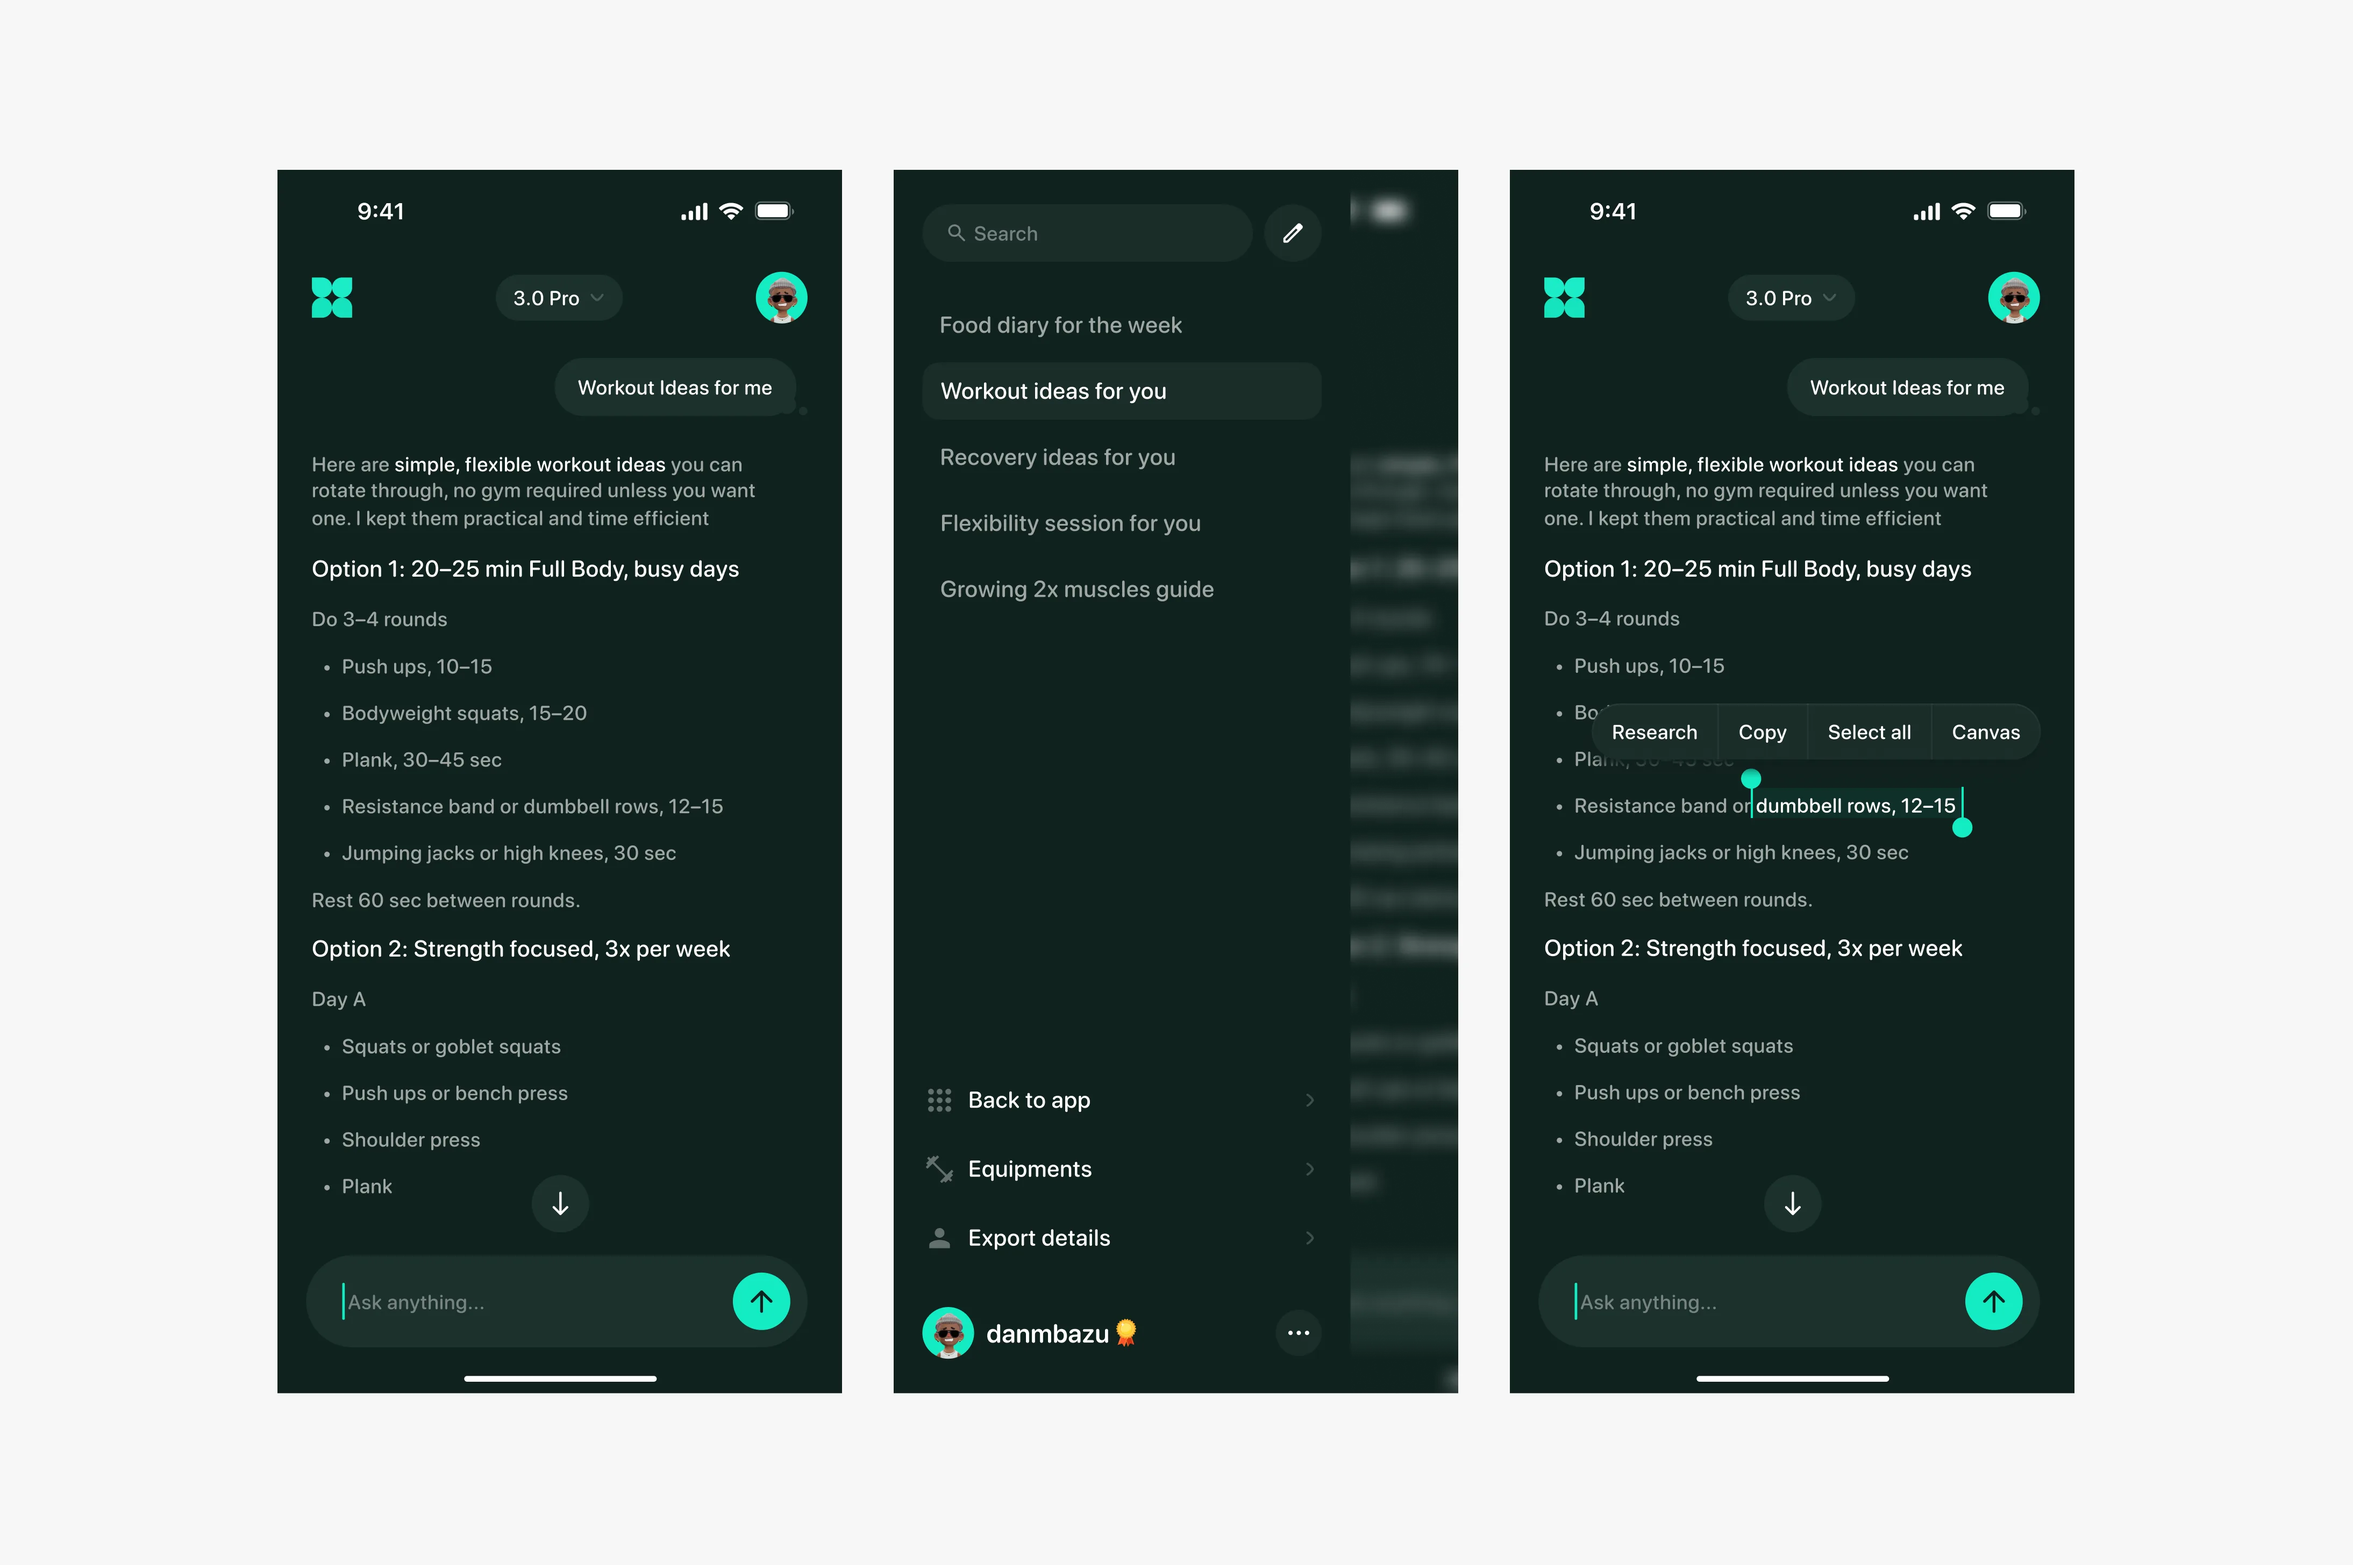
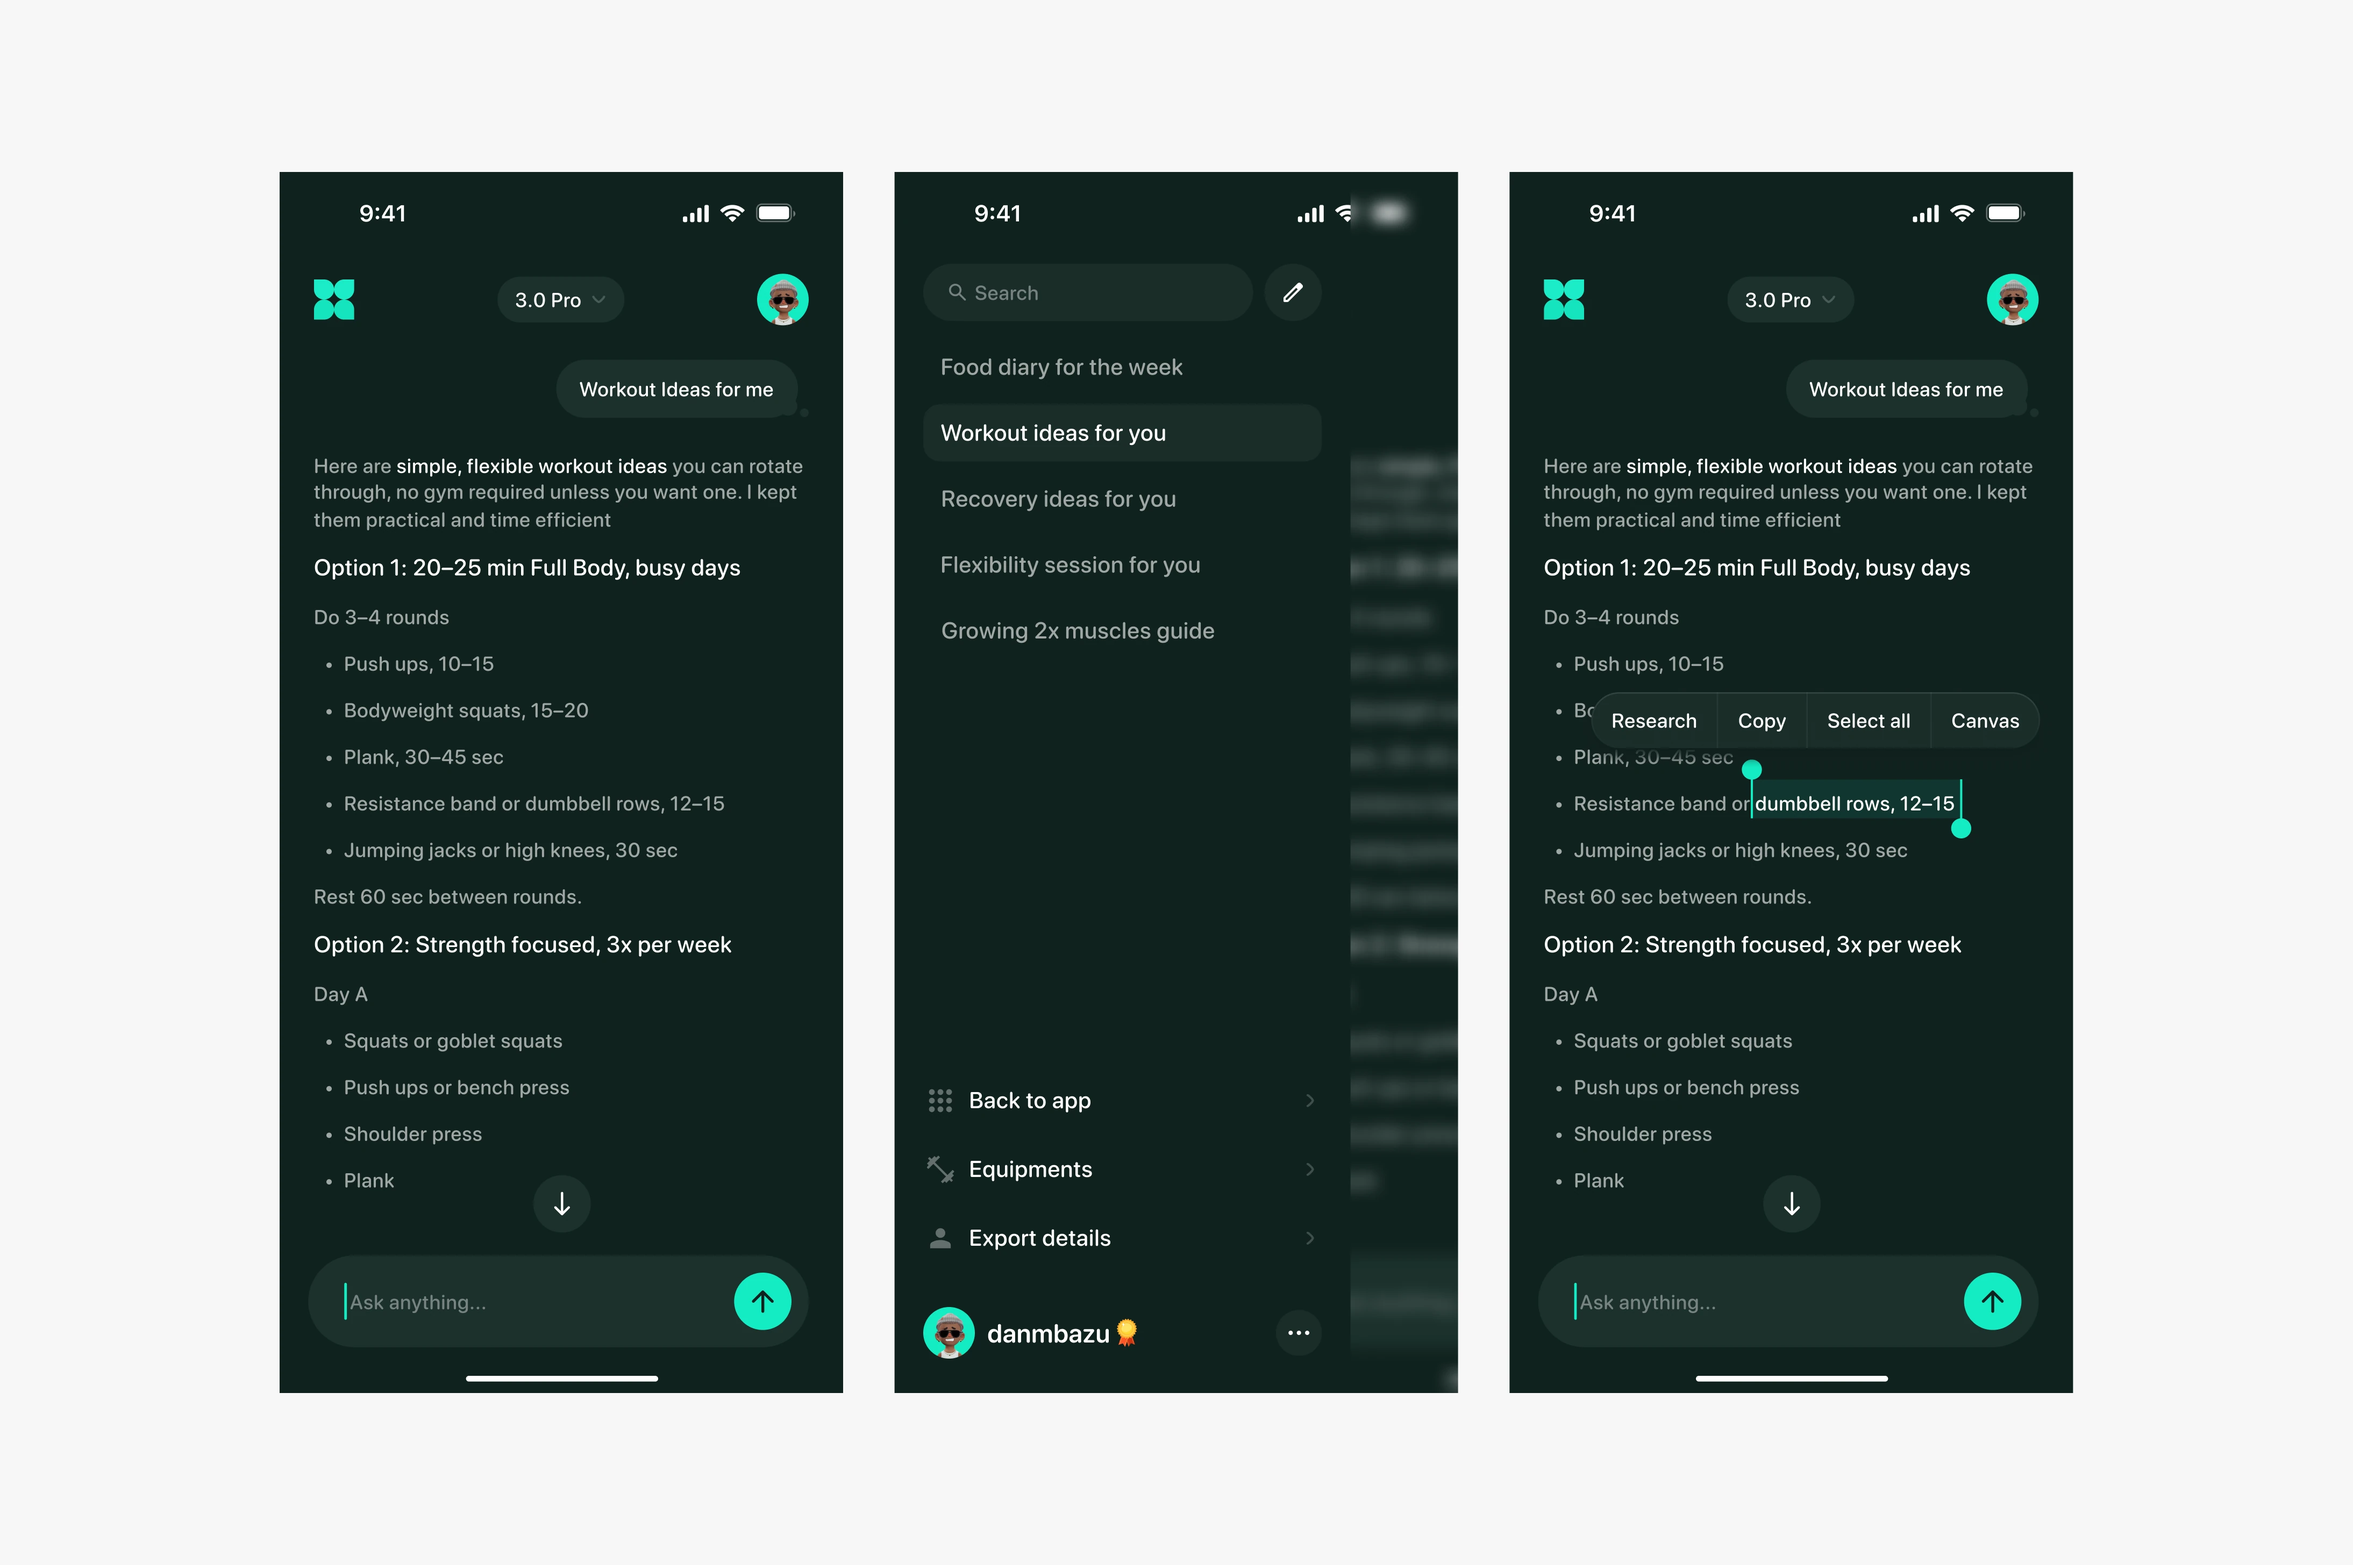
Update image e and add descriptive alt text to portfolio images

diff --git a/index.html b/index.html
@@ -72,43 +72,43 @@
 
     <main class="portfolio animate-portfolio">
       <div class="portfolio-grid">
-        <div class="portfolio-card"><img src="images/placeholder.webp" alt="Portfolio project 1" loading="eager" fetchpriority="high" decoding="async"></div>
-        <div class="portfolio-card"><img src="images/image a.webp" alt="Portfolio project 2" loading="eager" fetchpriority="high" decoding="async"></div>
-        <div class="portfolio-card"><img src="images/image ff.webp" alt="Portfolio project 3" loading="eager" decoding="async"></div>
-        <div class="portfolio-card"><img src="images/image gg.webp" alt="Xeho app onboarding screens" loading="eager" decoding="async"></div>
-        <div class="portfolio-card"><img src="images/image hh.webp" alt="Xeho app meal scanning screens" loading="eager" decoding="async"></div>
-        <div class="portfolio-card"><img src="images/image ii.webp" alt="Xeho app diet dashboard screens" loading="eager" decoding="async"></div>
-        <div class="portfolio-card"><img src="images/image c.webp" alt="Portfolio project 4" loading="eager" decoding="async"></div>
-        <div class="portfolio-card"><img src="images/image d.webp" alt="Portfolio project 5" loading="lazy" decoding="async"></div>
-        <div class="portfolio-card"><img src="images/image e.webp" alt="Portfolio project 6" loading="lazy" decoding="async"></div>
-        <div class="portfolio-card"><img src="images/image f.webp" alt="Portfolio project 7" loading="lazy" decoding="async"></div>
-        <div class="portfolio-card"><img src="images/image g.webp" alt="Portfolio project 8" loading="lazy" decoding="async"></div>
-        <div class="portfolio-card"><img src="images/image h.webp" alt="Portfolio project 9" loading="lazy" decoding="async"></div>
-        <div class="portfolio-card"><img src="images/image i.webp" alt="Portfolio project 10" loading="lazy" decoding="async"></div>
-        <div class="portfolio-card"><img src="images/image j.webp" alt="Portfolio project 11" loading="lazy" decoding="async"></div>
-        <div class="portfolio-card"><img src="images/image k.webp" alt="Portfolio project 12" loading="lazy" decoding="async"></div>
-        <div class="portfolio-card"><img src="images/image l.webp" alt="Portfolio project 13" loading="lazy" decoding="async"></div>
-        <div class="portfolio-card"><img src="images/image m.webp" alt="Portfolio project 14" loading="lazy" decoding="async"></div>
-        <div class="portfolio-card"><img src="images/image n.webp" alt="Portfolio project 15" loading="lazy" decoding="async"></div>
-        <div class="portfolio-card"><img src="images/image o.webp" alt="Portfolio project 16" loading="lazy" decoding="async"></div>
-        <div class="portfolio-card"><img src="images/image p.webp" alt="Portfolio project 17" loading="lazy" decoding="async"></div>
-        <div class="portfolio-card"><img src="images/image q.webp" alt="Portfolio project 18" loading="lazy" decoding="async"></div>
-        <div class="portfolio-card"><img src="images/image r.webp" alt="Portfolio project 19" loading="lazy" decoding="async"></div>
-        <div class="portfolio-card"><img src="images/image s.webp" alt="Portfolio project 20" loading="lazy" decoding="async"></div>
-        <div class="portfolio-card"><img src="images/image t.webp" alt="Portfolio project 21" loading="lazy" decoding="async"></div>
-        <div class="portfolio-card"><img src="images/image u.webp" alt="Portfolio project 22" loading="lazy" decoding="async"></div>
-        <div class="portfolio-card"><img src="images/image v.webp" alt="Portfolio project 23" loading="lazy" decoding="async"></div>
-        <div class="portfolio-card"><img src="images/image w.webp" alt="Portfolio project 24" loading="lazy" decoding="async"></div>
-        <div class="portfolio-card"><img src="images/image x.webp" alt="Portfolio project 25" loading="lazy" decoding="async"></div>
-        <div class="portfolio-card"><img src="images/image-1.webp" alt="Portfolio project 26" loading="lazy" decoding="async"></div>
-        <div class="portfolio-card"><img src="images/image-2.webp" alt="Portfolio project 27" loading="lazy" decoding="async"></div>
-        <div class="portfolio-card"><img src="images/image y.webp" alt="Portfolio project 28" loading="lazy" decoding="async"></div>
-        <div class="portfolio-card"><img src="images/image z.webp" alt="Portfolio project 29" loading="lazy" decoding="async"></div>
-        <div class="portfolio-card"><img src="images/image aa.webp" alt="Portfolio project 30" loading="lazy" decoding="async"></div>
-        <div class="portfolio-card"><img src="images/image bb.webp" alt="Portfolio project 31" loading="lazy" decoding="async"></div>
-        <div class="portfolio-card"><img src="images/image cc.webp" alt="Portfolio project 32" loading="lazy" decoding="async"></div>
-        <div class="portfolio-card"><img src="images/image dd.webp" alt="Portfolio project 33" loading="lazy" decoding="async"></div>
-        <div class="portfolio-card"><img src="images/image ee.webp" alt="Portfolio project 34" loading="lazy" decoding="async"></div>
+        <div class="portfolio-card"><img src="images/placeholder.webp" alt="Messaging app chat screens with a conversation, pinned chat menu and message reactions" loading="eager" fetchpriority="high" decoding="async"></div>
+        <div class="portfolio-card"><img src="images/image a.webp" alt="Everycent finance app sign-up screens and Upgrade to Pro paywall" loading="eager" fetchpriority="high" decoding="async"></div>
+        <div class="portfolio-card"><img src="images/image ff.webp" alt="Xeho fitness app sign-in screens with phone number and OTP verification" loading="eager" decoding="async"></div>
+        <div class="portfolio-card"><img src="images/image gg.webp" alt="Xeho onboarding screens asking about goals, birth year and food allergies" loading="eager" decoding="async"></div>
+        <div class="portfolio-card"><img src="images/image hh.webp" alt="Xeho meal scanning flow: diet dashboard, food camera and add scanned meal form" loading="eager" decoding="async"></div>
+        <div class="portfolio-card"><img src="images/image ii.webp" alt="Xeho diet dashboard with calorie tracking, special offer paywall and meal history" loading="eager" decoding="async"></div>
+        <div class="portfolio-card"><img src="images/image c.webp" alt="Xeho workout screens: workouts overview, warm-up video and AI workout generator" loading="eager" decoding="async"></div>
+        <div class="portfolio-card"><img src="images/image d.webp" alt="Xeho profile settings, edit username and AI assistant home screens" loading="lazy" decoding="async"></div>
+        <div class="portfolio-card"><img src="images/image e.webp" alt="Xeho AI assistant chat with workout ideas, chat history sidebar and text selection" loading="lazy" decoding="async"></div>
+        <div class="portfolio-card"><img src="images/image f.webp" alt="Messaging app group thread screens with member list and message actions" loading="lazy" decoding="async"></div>
+        <div class="portfolio-card"><img src="images/image g.webp" alt="Shootassist team app screens: home with job timer, notifications and settings menu" loading="lazy" decoding="async"></div>
+        <div class="portfolio-card"><img src="images/image h.webp" alt="Everycent spending overview, food category transactions and budget editing screens" loading="lazy" decoding="async"></div>
+        <div class="portfolio-card"><img src="images/image i.webp" alt="Everycent empty overview, transactions to review and coffee overspend alert" loading="lazy" decoding="async"></div>
+        <div class="portfolio-card"><img src="images/image j.webp" alt="Everycent debt repayment goal, primary care spending gauge and subscription list" loading="lazy" decoding="async"></div>
+        <div class="portfolio-card"><img src="images/image k.webp" alt="Custom line icon set of food and drink icons" loading="lazy" decoding="async"></div>
+        <div class="portfolio-card"><img src="images/image l.webp" alt="Workspace app home with colourful context cards, card detail and view options" loading="lazy" decoding="async"></div>
+        <div class="portfolio-card"><img src="images/image m.webp" alt="StartClaw logo construction showing grid lines and filled and outline marks" loading="lazy" decoding="async"></div>
+        <div class="portfolio-card"><img src="images/image n.webp" alt="StartClaw brand identity: app icon, “Stop hiring, start deploying” billboard, icons and colour palette" loading="lazy" decoding="async"></div>
+        <div class="portfolio-card"><img src="images/image o.webp" alt="StartClaw AI agent chat where Atlas plans a Google Calendar briefing workflow" loading="lazy" decoding="async"></div>
+        <div class="portfolio-card"><img src="images/image p.webp" alt="StartClaw home screen prompting the user to deploy their first AI agent" loading="lazy" decoding="async"></div>
+        <div class="portfolio-card"><img src="images/image q.webp" alt="StartClaw agent chat with attachment menu and skills picker" loading="lazy" decoding="async"></div>
+        <div class="portfolio-card"><img src="images/image r.webp" alt="StartClaw agent chat with AI model picker and extended reasoning toggle" loading="lazy" decoding="async"></div>
+        <div class="portfolio-card"><img src="images/image s.webp" alt="Premisly website builder editor with layers panel, page canvas and style controls" loading="lazy" decoding="async"></div>
+        <div class="portfolio-card"><img src="images/image t.webp" alt="Onbase project management dashboard with stats, orders chart, timeline and project table" loading="lazy" decoding="async"></div>
+        <div class="portfolio-card"><img src="images/image u.webp" alt="Crypto wallet app home with token balances, send funds sheet and edit account screen" loading="lazy" decoding="async"></div>
+        <div class="portfolio-card"><img src="images/image v.webp" alt="Crypto wallet send flow: choose recipient, search users and enter amount" loading="lazy" decoding="async"></div>
+        <div class="portfolio-card"><img src="images/image w.webp" alt="Crypto wallet token swap screens with keypad and slippage settings" loading="lazy" decoding="async"></div>
+        <div class="portfolio-card"><img src="images/image x.webp" alt="Crypto wallet receive flow with token list, search and Bitcoin QR code" loading="lazy" decoding="async"></div>
+        <div class="portfolio-card"><img src="images/image-1.webp" alt="Crypto wallet avatar editor with collectibles picker and background colours" loading="lazy" decoding="async"></div>
+        <div class="portfolio-card"><img src="images/image-2.webp" alt="Crypto wallet emoji avatar picker, background colours and edit account screen" loading="lazy" decoding="async"></div>
+        <div class="portfolio-card"><img src="images/image y.webp" alt="Rachio smart irrigation app onboarding screens with plant illustrations" loading="lazy" decoding="async"></div>
+        <div class="portfolio-card"><img src="images/image z.webp" alt="Premisly wordmark logo" loading="lazy" decoding="async"></div>
+        <div class="portfolio-card"><img src="images/image aa.webp" alt="Shootassist web dashboard client list with filters and bulk actions" loading="lazy" decoding="async"></div>
+        <div class="portfolio-card"><img src="images/image bb.webp" alt="Premisly site admin general settings with company details and working hours" loading="lazy" decoding="async"></div>
+        <div class="portfolio-card"><img src="images/image cc.webp" alt="Email marketing eBook landing page and sign-up flow" loading="lazy" decoding="async"></div>
+        <div class="portfolio-card"><img src="images/image dd.webp" alt="Premisly site admin homepage content editor with feature and hero fields" loading="lazy" decoding="async"></div>
+        <div class="portfolio-card"><img src="images/image ee.webp" alt="Blue folder app icon in two variations" loading="lazy" decoding="async"></div>
       </div>
     </main>
   </div>
